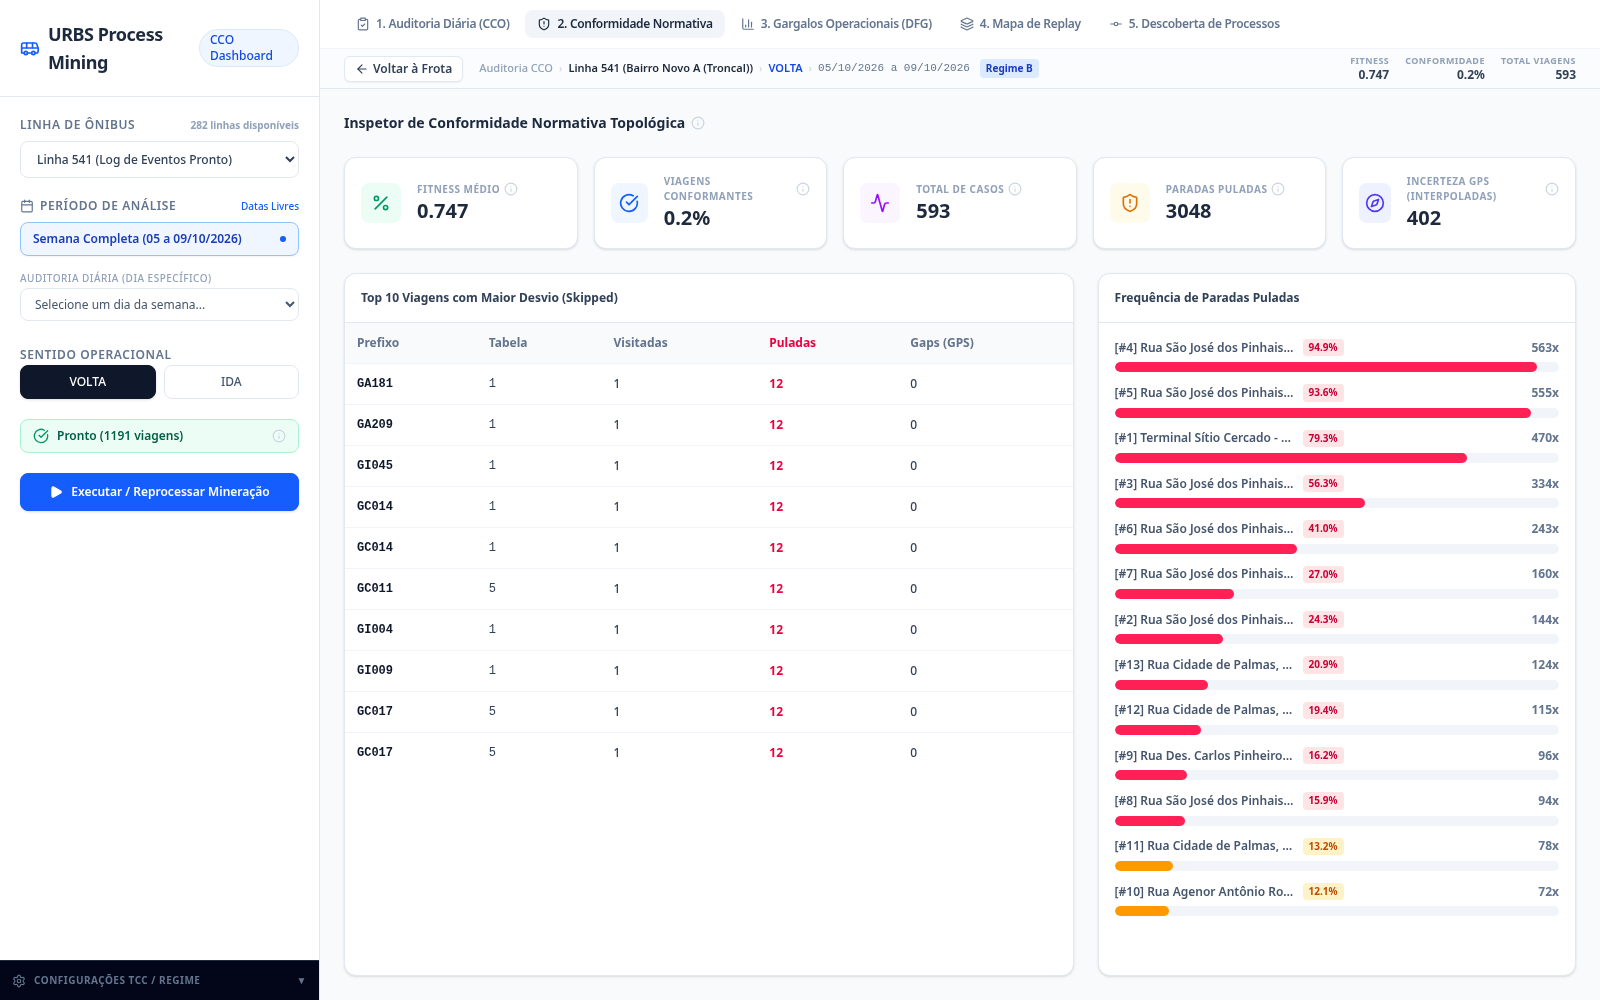
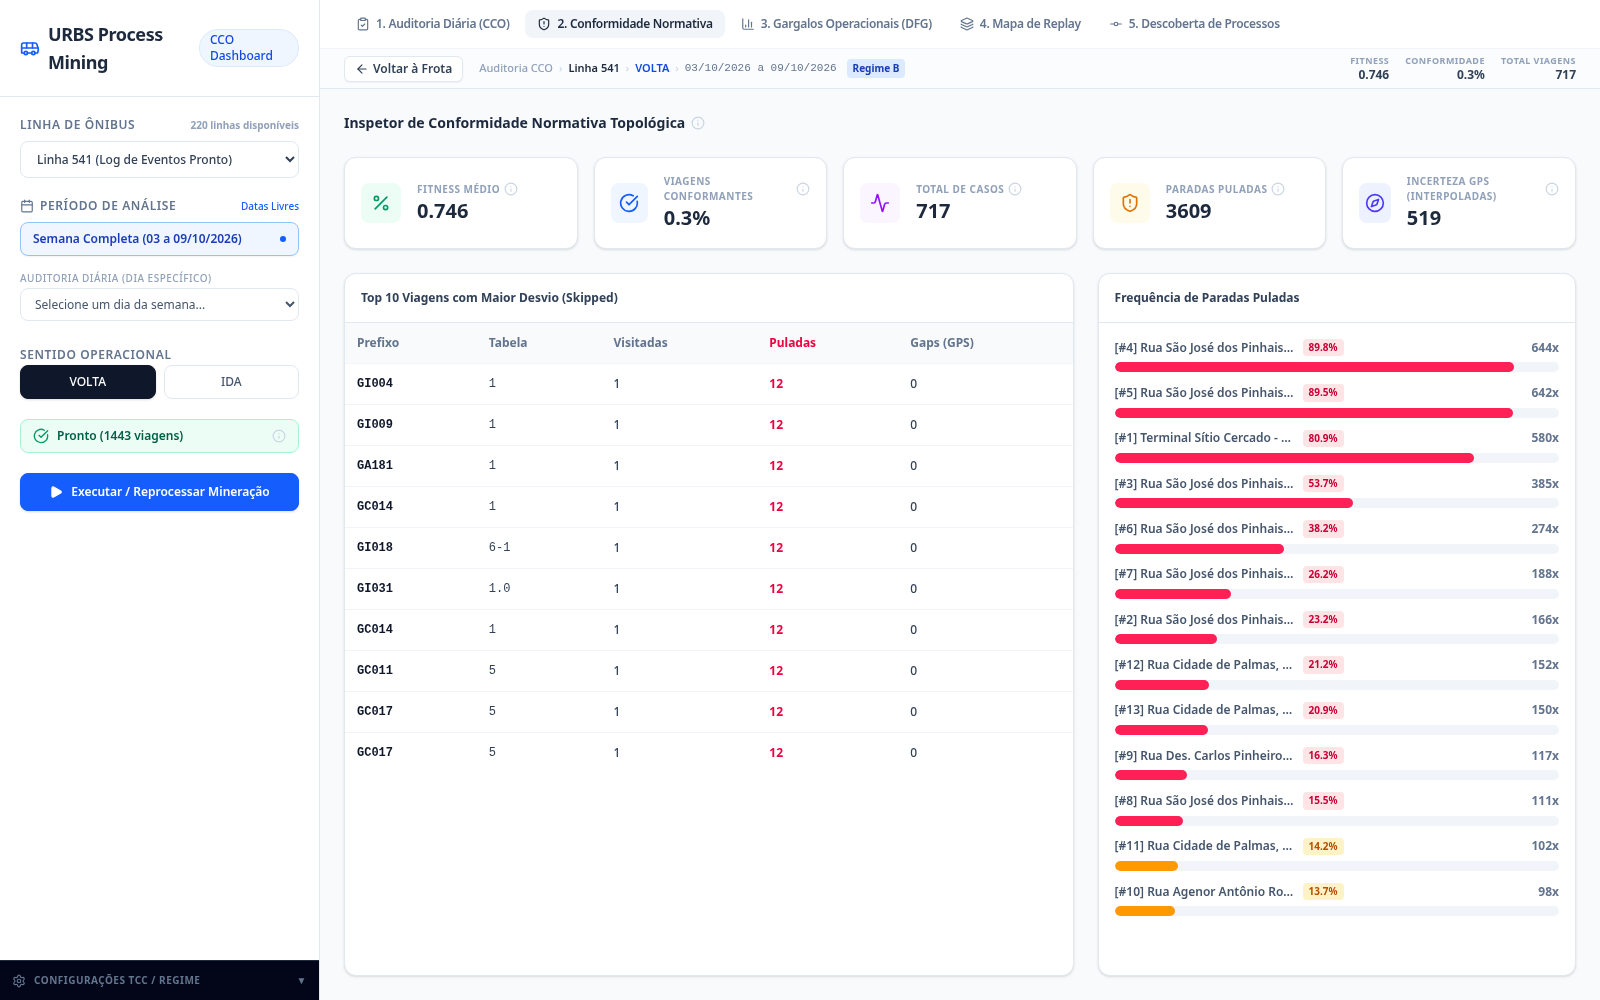
docs(tcc): usa semana completa (03-09/10) no regime B e atualiza numeros

diff --git a/tcc-latex/texto/4-resultados.tex b/tcc-latex/texto/4-resultados.tex
@@ -16,18 +16,18 @@ Foram analisadas três linhas de tipos diferentes: a 541 (troncal), a 542 (alime
 \hline
 \textbf{Linha} & \textbf{Tipo} & \textbf{Regime} & \textbf{Viagens} & \textbf{Eventos} & \textbf{\% interp.} \\ \hline
 541 & Troncal & A & 956 & 5.092 & 23,1\% \\ \hline
-541 & Troncal & B & 1.191 & 9.833 & 11,0\% \\ \hline
+541 & Troncal & B & 1.443 & 12.161 & 11,0\% \\ \hline
 542 & Alimentadora & A & 542 & 2.460 & 27,4\% \\ \hline
 542 & Alimentadora & B & 967 & 6.395 & 17,0\% \\ \hline
 050 & Interbairros & A & 670 & 7.935 & 24,3\% \\ \hline
-050 & Interbairros & B & 723 & 14.889 & 13,1\% \\ \hline
+050 & Interbairros & B & 855 & 17.730 & 13,8\% \\ \hline
 \end{tabular}
 \fonte{}
 \end{tabframed}
 
 \subsection{Cenário 1: Linha Troncal Radial (Linha 541 - Bairro Novo A)}\label{subsec:cenario541}
 
-A linha 541 liga o bairro Bairro Novo A ao Terminal Sítio Cercado, com 13 paradas no sentido do bairro e 15 no sentido do terminal. No Regime A, o log tem 956 viagens e 5.092 eventos; no Regime B, 1.191 viagens e 9.833 eventos.
+A linha 541 liga o bairro Bairro Novo A ao Terminal Sítio Cercado, com 13 paradas no sentido do bairro e 15 no sentido do terminal. No Regime A, o log tem 956 viagens e 5.092 eventos; no Regime B, 1.443 viagens e 12.161 eventos.
 
 \subsection{Cenário 2: Linha Alimentadora (Linha 542 - Bairro Novo B)}\label{subsec:cenario542}
 
@@ -35,7 +35,7 @@ A linha 542 atende o bairro Bairro Novo B, com 17 paradas no sentido do bairro e
 
 \subsection{Cenário 3: Linha Interbairros (Linha 050 - Interbairros V)}\label{subsec:cenario050}
 
-A linha 050 liga o Terminal Oficinas ao Terminal Fazendinha, com 101 paradas no total (cerca de 50 por sentido). No Regime A, o log tem 670 viagens e 7.935 eventos; no Regime B, 723 viagens e 14.889 eventos.
+A linha 050 liga o Terminal Oficinas ao Terminal Fazendinha, com 101 paradas no total (cerca de 50 por sentido). No Regime A, o log tem 670 viagens e 7.935 eventos; no Regime B, 855 viagens e 17.730 eventos.
 
 As métricas usadas nas seções seguintes são: o fitness, um valor entre 0 e 1 que mede o quanto as viagens observadas seguem o itinerário planejado; a viagem conforme, que passa por todas as paradas previstas na ordem correta; o evento interpolado, cujo horário de passagem foi estimado por interpolação em vez de medido; e n, o tamanho da amostra de cada trecho na análise de desempenho.
 
@@ -67,13 +67,13 @@ Com o intervalo de 20 segundos, a quantidade de leituras é cerca de seis vezes 
 
 \subsection{Conformidade e Paradas Omitidas}\label{subsec:regimeB_conformidade}
 
-No Regime B, o fitness médio subiu para 0,738 (ida) e 0,747 (volta) na linha 541; 0,652 e 0,737 na linha 542; e 0,643 e 0,698 na linha 050. A melhora em relação ao Regime A vem das paradas intermediárias, que passam a ser recuperadas com a maior densidade de leituras.
+No Regime B, o fitness médio subiu para 0,747 (ida) e 0,747 (volta) na linha 541; 0,652 e 0,737 na linha 542; e 0,643 e 0,695 na linha 050. A melhora em relação ao Regime A vem das paradas intermediárias, que passam a ser recuperadas com a maior densidade de leituras.
 
 As paradas de terminal e de aproximação, porém, continuam omitidas em cerca de 90\% a 100\% das viagens, o mesmo padrão observado no Regime A. Como essas paradas são omitidas do log quando o ônibus não se aproxima a menos de 150 metros, a omissão restante corresponde a um comportamento real da operação, e não a uma falha de reconstrução.
 
 \subsection{Desempenho e Gargalos}\label{subsec:regimeB_desempenho}
 
-Com a amostra maior, os gargalos ficam mais bem caracterizados. Na linha 541, os trechos mais lentos foram ``Rua Cidade de Palmas, 723 $\rightarrow$ Rua São José dos Pinhais, 1167'', com 7,96 minutos (n = 114), e a aproximação ao terminal ``Rua São José dos Pinhais, 1167 $\rightarrow$ Terminal Sítio Cercado'', com 7,90 minutos (n = 140). Os tempos usam apenas passagens observadas nas duas paradas do trecho, e a proporção de eventos interpolados indica a parcela de horários estimados: no primeiro trecho, 45\% das passagens foram interpoladas.
+Com a amostra maior, os gargalos ficam mais bem caracterizados. Na linha 541, os trechos mais lentos foram a aproximação ao terminal ``Rua São José dos Pinhais, 1167 $\rightarrow$ Terminal Sítio Cercado'', com 8,03 minutos (n = 156), e ``Rua Cidade de Palmas, 723 $\rightarrow$ Rua São José dos Pinhais, 1167'', com 7,91 minutos (n = 146). Os tempos usam apenas passagens observadas nas duas paradas do trecho, e a proporção de eventos interpolados indica a parcela de horários estimados: no segundo trecho, 42\% das passagens foram interpoladas.
 
 \section{Comparação entre os Intervalos de Coleta}\label{sec:comparacaoIntervalos}
 
@@ -86,9 +86,9 @@ O \autoref{quad:comparacao} compara os dois regimes nas três linhas.
 \begin{tabular}{|p{1.2cm}|p{2.6cm}|p{2.4cm}|p{2.4cm}|p{2.2cm}|p{2.2cm}|}
 \hline
 \textbf{Linha} & \textbf{Tipo} & \textbf{Fitness (A)} & \textbf{Fitness (B)} & \textbf{\% interp. (A)} & \textbf{\% interp. (B)} \\ \hline
-541 & Troncal & 0,456 / 0,380 & 0,738 / 0,747 & 23,1\% & 11,0\% \\ \hline
+541 & Troncal & 0,456 / 0,380 & 0,747 / 0,747 & 23,1\% & 11,0\% \\ \hline
 542 & Alimentadora & 0,407 / 0,458 & 0,652 / 0,737 & 27,4\% & 17,0\% \\ \hline
-050 & Interbairros & 0,314 / 0,373 & 0,643 / 0,698 & 24,3\% & 13,1\% \\ \hline
+050 & Interbairros & 0,314 / 0,373 & 0,643 / 0,695 & 24,3\% & 13,8\% \\ \hline
 \end{tabular}
 \fonte{}
 \end{tabframed}

diff --git a/tcc-latex/texto/3-metodologia.tex b/tcc-latex/texto/3-metodologia.tex
@@ -59,7 +59,7 @@ request\_timestamp & Instante em que a posição foi coletada \\ \hline
 O cadastro estático reúne as informações de planejamento das linhas: as linhas (\texttt{getLinhas.php}), as paradas e a sequência de cada itinerário (\texttt{getPontosLinha.php}), os horários programados (\texttt{getTabelaLinha.php}) e o traçado físico das vias (\texttt{getShapeLinha.php}). Esses dados são guardados em cache local (\texttt{data/static\_cache}), em arquivos JSON por linha com as paradas, o traçado e a tabela de horários. Como parte do arquivo histórico deixa de ficar disponível no portal após um ano, utilizou-se também a base de dados mantida pelo Centro de Computação Científica e Software Livre (C3SL) da UFPR como fonte de backup, com consulta à API da URBS como alternativa.
 \section{Regimes de Coleta de Dados}\label{sec:regimes}
 
-Para avaliar o efeito do intervalo entre leituras de GPS, a coleta foi organizada em duas campanhas, chamadas de regimes de coleta. No Regime A (amostragem padrão da rede), os registros foram coletados a cada aproximadamente 120 segundos (2 minutos), entre 24 e 29 de outubro de 2025. No Regime B (alta frequência), os registros foram coletados a cada aproximadamente 20 segundos, entre 5 e 9 de outubro de 2026, com o mesmo coletor e processados com o mesmo código do Regime A, para que a comparação seja válida. O \autoref{quad:regimes} resume os dois regimes.
+Para avaliar o efeito do intervalo entre leituras de GPS, a coleta foi organizada em duas campanhas, chamadas de regimes de coleta. No Regime A (amostragem padrão da rede), os registros foram coletados a cada aproximadamente 120 segundos (2 minutos), entre 24 e 29 de outubro de 2025. No Regime B (alta frequência), os registros foram coletados a cada aproximadamente 20 segundos, entre 3 e 9 de outubro de 2026, com o mesmo coletor e processados com o mesmo código do Regime A, para que a comparação seja válida. O \autoref{quad:regimes} resume os dois regimes.
 
 \begin{tabframed}[htb]
 \caption{Regimes de coleta de dados}
@@ -68,7 +68,7 @@ Para avaliar o efeito do intervalo entre leituras de GPS, a coleta foi organizad
 \hline
 \textbf{Item} & \textbf{Regime A} & \textbf{Regime B} \\ \hline
 Intervalo entre leituras & ~120 s (2 min) & ~20 s \\ \hline
-Período & 24 a 29/10/2025 & 05 a 09/10/2026 \\ \hline
+Período & 24 a 29/10/2025 & 03 a 09/10/2026 \\ \hline
 Duração & ~130 horas & uma semana \\ \hline
 Dados brutos & 5,08 milhões de registros, em 127 arquivos horários & coleta própria a 20 s (frota completa) \\ \hline
 \end{tabular}
